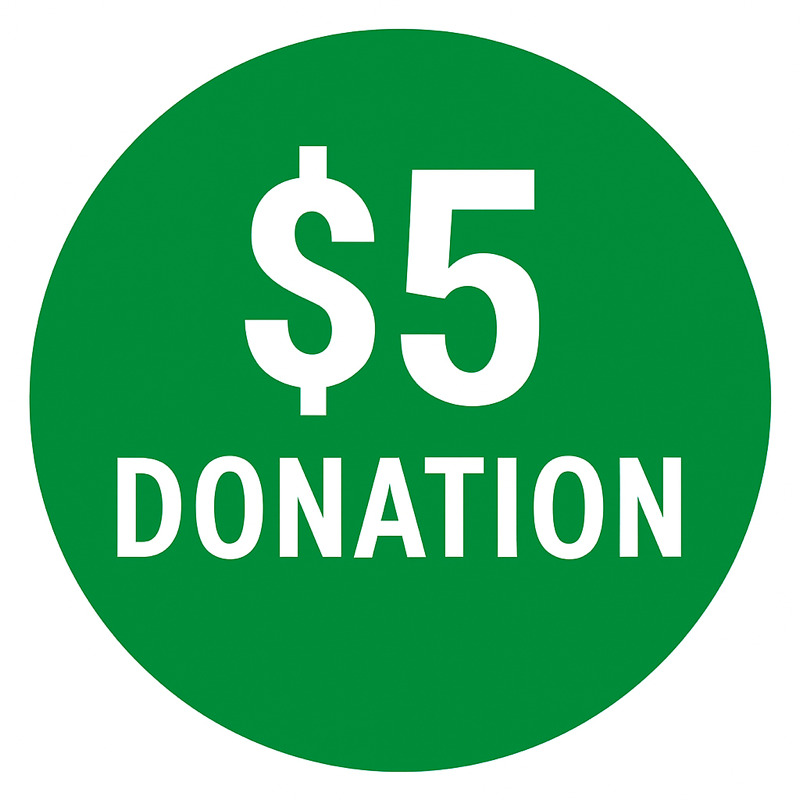
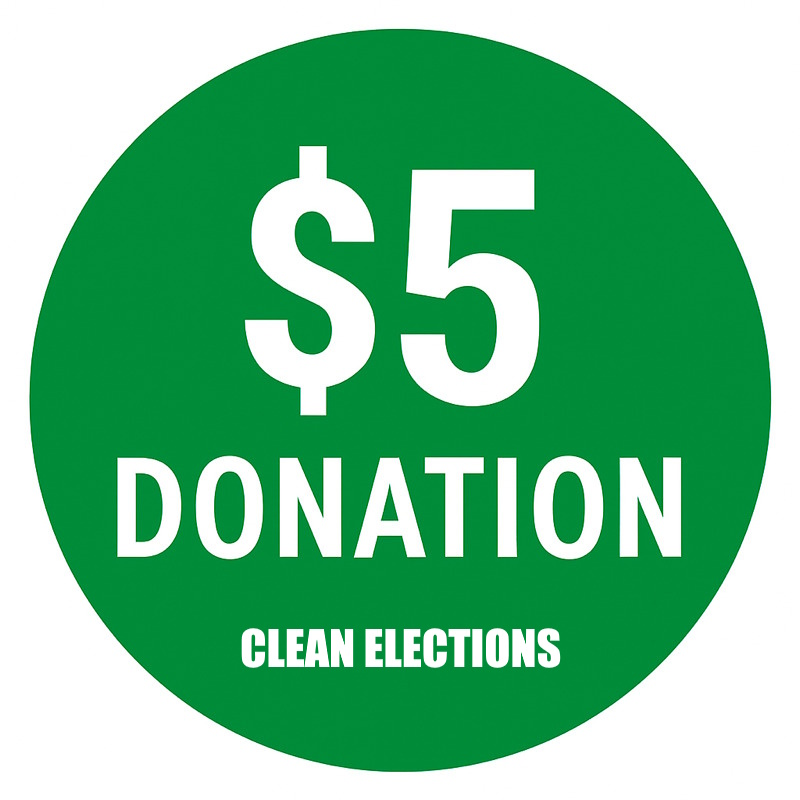
Removed links to petition now that the signature goal has been reached

Changed region(s): [[0.2812, 0.7812, 0.7188, 0.8438]]

diff --git a/support.html b/support.html
@@ -30,22 +30,16 @@
             <div>
                 <h1>Help Get Us On the Ballot</h1>
                 <p>
-                    Attention Arizona voters, we need your support! Register as an Arizona Independent, Independent Party, or 
-                    No Labels Party voter to sign the petition in order to get Michael Zepeda on the ballot. We need to get <span>1500 signatures by
-                    March 7th</span>, so make sure to spread the word!
+                    Attention Arizona voters, we need your support! Our campaign has successfully acquired the 1500 signatures needed for our campaign to
+                    qualify, but we still need <span>1500 $5 donations</span> through Clean Elections. If you are interested in supporting the campaign, see
+                    the sections below to find out how your donation will help the campaign.
                 </p>
-                <a class="buttonLink" target="_blank" href="https://apps.azsos.gov/apps/election/eps/op/">Sign the Petition</a>
             </div>
             <img alt="Ballot" src="images/vote-icon.svg">
         </section>
 
         <section>
             <h1>Make a Donation</h1>
-            <!-- <p>
-                Donations are some of the best ways for our supporters to help keep our campaign running. A five dollar contribution is more than enough,
-                but if you have the ability and desire to support even further, we can accept up to $220 from individuals. We are not taking money from
-                corporation lobbyist PACs, Michael Zepeda is a candidate for the people, and will run through clean and clear elections.
-            </p> -->
             <p>
                 <span>What Does $5 Buy You?</span> For just $5, you're helping someone who doesn't take money from big companies. You're helping a person who
                 doesn't belong to either political party - someone who stands proudly as independent. Most of all, you're supporting someone who will work

diff --git a/index.html b/index.html
@@ -36,11 +36,11 @@
                     <img src="images/donationIcon.jpg" alt="$5 Donation">
                 </a>
                 <img src="images/Miguel_Headshots.jpg" alt="zepeda_headshot">
-                <a target="_blank" href="https://apps.azsos.gov/apps/election/eps/op/">
-                    <img src="images/petitionIcon.jpg" alt="Sign the Petition">
+                <a target="_blank" href="https://buy.stripe.com/7sY6oH7pRg2u9ri60F7Zu03">
+                    <img src="images/generalDonationIcon.jpg" alt="General Donations">
                 </a>
             </div>
-            <a class="buttonLink" target="_blank" href="https://buy.stripe.com/7sY6oH7pRg2u9ri60F7Zu03">General Donations</a>
+            <!-- <a class="buttonLink" target="_blank" href="https://buy.stripe.com/7sY6oH7pRg2u9ri60F7Zu03">General Donations</a> -->
         </section>
 
         <section id="standFor">

diff --git a/sass/home.scss b/sass/home.scss
@@ -358,6 +358,10 @@ footer {
             width: 25%;
             transition: scale 0.1s;
 
+            color: $light-background;
+            text-decoration: none;
+            font-size: 3.5vmin;
+
             &:hover {
                 scale: 1.1;
             }

diff --git a/css/home.css b/css/home.css
@@ -267,6 +267,9 @@ footer p {
 #home #homeIntro a {
   width: 25%;
   transition: scale 0.1s;
+  color: #f2f3f6;
+  text-decoration: none;
+  font-size: 3.5vmin;
 }
 #home #homeIntro a:hover {
   scale: 1.1;
